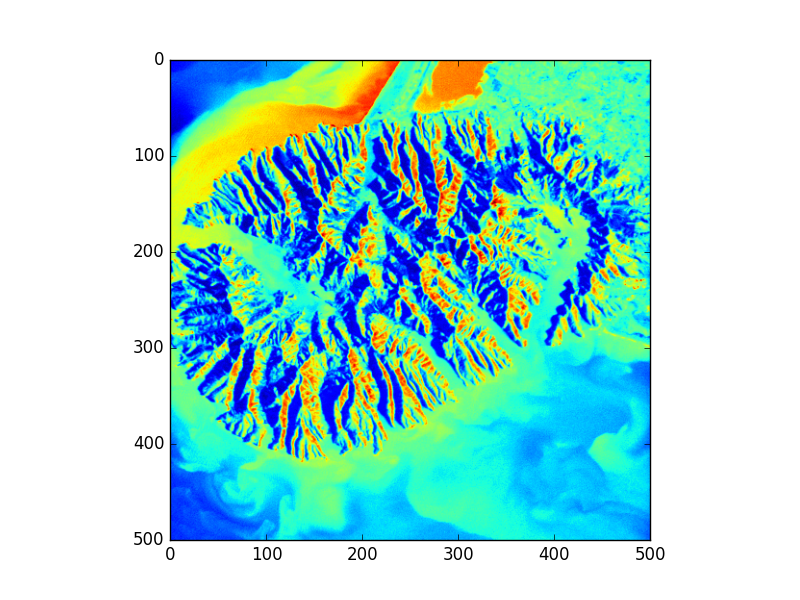
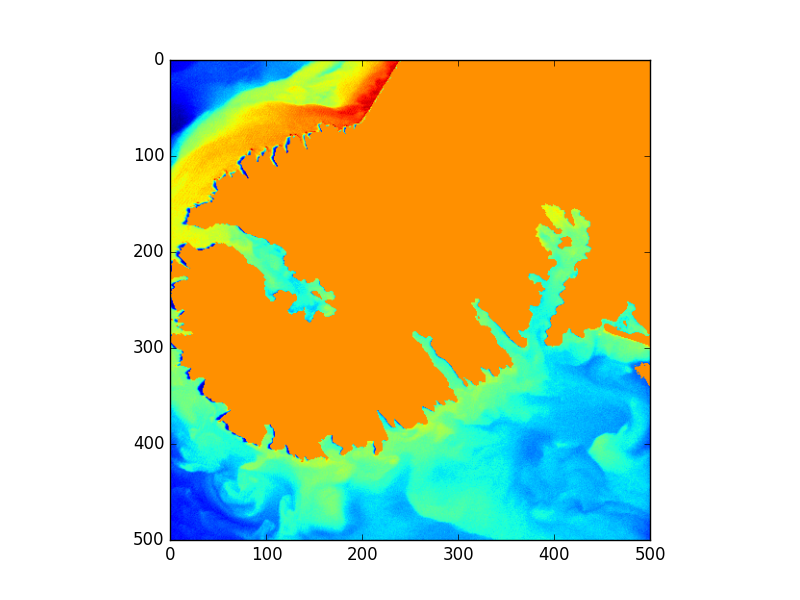
task 2 complete

Changed region(s): [[0.1875, 0.09, 0.8125, 0.78], [0.1875, 0.78, 0.3125, 0.9], [0.7812, 0.6, 0.8125, 0.63]]

diff --git a/Problem2/estimating_reflectance_surface.py b/Problem2/estimating_reflectance_surface.py
@@ -29,7 +29,7 @@ def calculate_ab(lambda_idx):
 	A = np.array([[rho_deep, 1],[rho_shallow, 1]])
 
 	# setup y vector
-	L_shallow = I[shallow_water_y, shallow_water_x, lambda_idx]
+	L_shallow = I[shallow_water_x,shallow_water_y,  lambda_idx]
 	L_deep = I[deep_water_y, deep_water_x, lambda_idx]
 	y = np.array([L_deep, L_shallow])
 	y = y.reshape(2,1)
@@ -39,59 +39,83 @@ def calculate_ab(lambda_idx):
 
 	return x
 
-red = 570.19196
-green = 535.824
-blue = 432.72
-for i in range(0, len(hico_wl)):
-	if hico_wl[i] == red:
-		red_image_index = i
-	if hico_wl[i] == blue:
-		blue_image_index = i
-	if hico_wl[i] == green:
-		green_image_index = i
+def atmosphere_correct(image):
+	
+	#calculate all a,b for valid indices
+	x = np.zeros((100,2))
+	for i in range(0,100):
+		if valid_bands_Rrs[i] == 1:
+			temp_x = calculate_ab(i)
+			x[i,0] = temp_x[0]
+			x[i,1] = temp_x[1]
 
-x = np.zeros((100,2))
-#calculate all a,b for valid indices
-for i in range(0,100):
-	if valid_bands_Rrs[i] == 1:
-		temp_x = calculate_ab(i)
-		print(temp_x)
-		x[i,0] = temp_x[0]
-		x[i,1] = temp_x[1]
+	# Correct the valid bands
+	for i in range(0,H):
+		print(i)
+		for j in range(0,W):
+			# Now we're at a pixel p, time to update the valid channels
+			for k in range(0, 100):
+				if valid_bands_Rrs[k] == 1:
+					# Update the 
+					image[i,j,k] = (image[i,j,k]-x[k,1])/x[k,0]
+	return image
 
-for i in range(0,H):
-	print(i)
-	for j in range(0,W):
-		# Now we're at a pixel p, time to update the valid channels
-		for k in range(0, 100):
-			if valid_bands_Rrs[k] == 1:
-				# Update the 
-				I_corrected[i,j,k] = (I_corrected[i,j,k]-x[k,1])/x[k,0]
+if __name__ == "__main__":
+	
+	I_corrected = atmosphere_correct(I_corrected)
 
-#Finding max radiance in RGB bands
-maximum = 0;
-for i in range(0,H):
-	for j in range(0,W):
-		#for k in range(0,L):
-			if I_corrected[i,j,red_image_index] > maximum:
-				maximum = I_corrected[i,j,red_image_index]
-			if I_corrected[i,j,green_image_index] > maximum:
-				maximum = I_corrected[i,j,green_image_index]
-			if I_corrected[i,j,blue_image_index] > maximum:
-				maximum = I_corrected[i,j,blue_image_index]
+	# Find indices for the three bands
+	red = 570.19196
+	green = 535.824
+	blue = 438.448
+	for i in range(0, len(hico_wl)):
+		if hico_wl[i] == red:
+			red_image_index = i
+		if hico_wl[i] == blue:
+			blue_image_index = i
+		if hico_wl[i] == green:
+			green_image_index = i
 
-# Normalizing(yes i normalize everything, but i am currently interested in RGB chanels)
-for i in range(0,H):
-	for j in range(0,W):
-		for k in range(0,L):
-			I_corrected[i,j,k] = I_corrected[i,j,k]/maximum
+	#Finding max radiance in RGB bands
+	maximum = 0;
+	maximum2 = 0;
+	for i in range(0,H):
+		for j in range(0,W):
+				if I_corrected[i,j,red_image_index] > maximum:
+					maximum = I_corrected[i,j,red_image_index]
+				if I_corrected[i,j,green_image_index] > maximum:
+					maximum = I_corrected[i,j,green_image_index]
+				if I_corrected[i,j,blue_image_index] > maximum:
+					maximum = I_corrected[i,j,blue_image_index]
+
+				if I[i,j,red_image_index] > maximum2:
+					maximum2 = I[i,j,red_image_index]
+				if I[i,j,green_image_index] > maximum2:
+					maximum2 = I[i,j,green_image_index]
+				if I[i,j,blue_image_index] > maximum2:
+					maximum2 = I[i,j,blue_image_index]
+
+	# Normalizing(yes i normalize everything, but i am currently interested in RGB chanels)
+	for i in range(0,H):
+		for j in range(0,W):
+			for k in range(0,L):
+				I_corrected[i,j,k] = I_corrected[i,j,k]/maximum
+				I[i,j,k] = I[i,j,k]/maximum2
 
 
-rgbArray = np.zeros((500,500,3))
-rgbArray[..., 0] = I_corrected[:,:,red_image_index]
-rgbArray[..., 1] = I_corrected[:,:,green_image_index]
-rgbArray[..., 2] = I_corrected[:,:,blue_image_index]
+	rgbArray = np.zeros((500,500,3))
+	rgbArray[..., 0] = I_corrected[:,:,red_image_index]
+	rgbArray[..., 1] = I_corrected[:,:,green_image_index]
+	rgbArray[..., 2] = I_corrected[:,:,blue_image_index]
 
-plt.figure()
-plt.imshow(rgbArray)
-plt.show()
+	rgbArray2 = np.zeros((500,500,3))
+	rgbArray2[..., 0] = I[:,:,red_image_index]
+	rgbArray2[..., 1] = I[:,:,green_image_index]
+	rgbArray2[..., 2] = I[:,:,blue_image_index]
+
+	plt.figure()
+	plt.subplot(121)
+	plt.imshow(rgbArray)
+	plt.subplot(122)
+	plt.imshow(rgbArray2)
+	plt.show()

diff --git a/Problem2/chlorophyll_estimation.py b/Problem2/chlorophyll_estimation.py
@@ -9,42 +9,52 @@ hico_wl = D['hico_wl']
 HICO_original = D['HICO_original']
 land_mask = plt.imread('../data/land_mask.png')[:,:,0] == 0
 
-a = [0.3272, -2.9940, 2.7218, -1.2259, -0.5683]
+def calculate_chlorophyl_image(image):
 
-lambda_green = 553.008
-lambda_blue = [444.176, 490.0, 507.18402]
-lambda_green_idx = -1
-lambda_blue_idx = [-1, -1, -1]
+	a = [0.3272, -2.9940, 2.7218, -1.2259, -0.5683]
 
-for i in range(0,len(hico_wl)):
-	if hico_wl[i] == lambda_green:
-		lambda_green_idx = i
-	if hico_wl[i] == lambda_blue[0]:
-		lambda_blue_idx[0] = i
-	if hico_wl[i] == lambda_blue[1]:
-		lambda_blue_idx[1] = i
-	if hico_wl[i] == lambda_blue[2]:
-		lambda_blue_idx[2] = i
+	lambda_green = 553.008
+	lambda_blue = [444.176, 490.0, 507.18402]
+	lambda_green_idx = -1
+	lambda_blue_idx = [-1, -1, -1]
 
-intensities = np.zeros((500,500))
+	for i in range(0,len(hico_wl)):
+		if hico_wl[i] == lambda_green:
+			lambda_green_idx = i
+		if hico_wl[i] == lambda_blue[0]:
+			lambda_blue_idx[0] = i
+		if hico_wl[i] == lambda_blue[1]:
+			lambda_blue_idx[1] = i
+		if hico_wl[i] == lambda_blue[2]:
+			lambda_blue_idx[2] = i
 
-H,W,L = HICO_original.shape
+	intensities = np.zeros((500,500))
 
-I = copy.deepcopy(HICO_original)
+	H,W,L = HICO_original.shape
 
-for i in range(0,H):
-	for j in range(0,W):
-		intensity = a[0]
-		numerator = max([ I[i,j,lambda_blue_idx[0]], I[i,j,lambda_blue_idx[1]], I[i,j,lambda_blue_idx[2]]])
-		denominator = I[i,j,lambda_green_idx]
-		for k in range(1,5):
-			intensity += a[k]*(math.log(numerator/denominator,10))**k
-		intensities[i,j] = 10**intensity
-intensities[land_mask] = 0
+	I = copy.deepcopy(HICO_original)
 
-print("low intensity: ", intensities[48,12])
-print("high intensity: ", intensities[33,207])
-print("medium intensity: ", intensities[133,11])
-plt.figure()
-plt.imshow(intensities)
-plt.show()
+	for i in range(0,H):
+		for j in range(0,W):
+			intensity = a[0]
+			numerator = max([ image[i,j,lambda_blue_idx[0]], image[i,j,lambda_blue_idx[1]], image[i,j,lambda_blue_idx[2]]])
+			denominator = image[i,j,lambda_green_idx]
+			for k in range(1,5):
+				intensity += a[k]*(math.log(numerator/denominator,10))**k
+			intensities[i,j] = intensity
+			print(intensity)
+
+	return intensities
+
+if __name__ == "__main__":
+	intensities = copy.deepcopy(HICO_original)
+	#intensities[land_mask] = 0
+	intensities = calculate_chlorophyl_image(intensities)
+	intensities[land_mask] = 0
+
+	print("low intensity: ", intensities[48,12])
+	print("high intensity: ", intensities[33,207])
+	print("medium intensity: ", intensities[133,11])
+	plt.figure()
+	plt.imshow(intensities)
+	plt.show()

diff --git a/Problem2/k_means.py b/Problem2/k_means.py
@@ -7,46 +7,58 @@ import copy
 D = loadmat("../data/HICO.mat")
 hico_wl = D['hico_wl']
 HICO_original = D['HICO_original']
+valid_bands_Rrs   = np.loadtxt('../data/valid_bands_Rrs.txt')
+land_mask = plt.imread('../data/land_mask.png')[:,:,0] == 0
 
 I = copy.deepcopy(HICO_original)
 [H,W,L] = I.shape
 
-X = np.reshape(I, [H*W,L])
-print("shape X", X.shape)
+def calculate_k_means(image,k, only_valid_bands):
+	hico_wl = D['hico_wl']
+	H,W,L = image.shape
+	image[land_mask] = 0
+	X = np.reshape(image, [H*W,L])
 
-N_CLUSTERS = 9
+	if only_valid_bands==1:
+		for i in range(99,-1,-1):
+			# if should remove band
+			if valid_bands_Rrs[i] == 0:
+				X = np.delete(X, i, 1)
+				hico_wl = np.delete(hico_wl, i, 0)
 
-kmeans = KMeans(n_clusters=N_CLUSTERS).fit(X)
-labels = kmeans.labels_	
+	kmeans = KMeans(n_clusters=k).fit(X)
+	
+	labels = kmeans.labels_	
 
-print(kmeans.cluster_centers_.shape)
+	imag = np.zeros((500,500))
 
-imag = np.zeros((500,500))
+	for i in range(0,500):
+		for j in range(0,500):
+			imag[i,j] = labels[i*500+j]
 
-for i in range(0,500):
-	for j in range(0,500):
-		imag[i,j] = labels[i*500+j]
-
-#(y,x)
-print("south", imag[70,100])
-print("-", imag[30,100])
-print("north", imag[10,100])
-print(imag)
-plt.figure(1)
-
-plt.subplot(121)
-#(x,y)
-#plt.plot(100,70,'ro')
-#plt.plot(100,30,'bo')
-#plt.plot(100,10,'go')
-plt.imshow(imag)
+	return imag, kmeans, hico_wl
 
 
-plt.subplot(122)
-for i in range(0,N_CLUSTERS):
-	plt.plot(hico_wl, kmeans.cluster_centers_[i,:])
+if __name__ == "__main__":
+	N_CLUSTERS = 5
 
-plt.xlabel("Wavelenght [nm]")
-plt.ylabel("Radiance [$W/m^{-2}\mu m^{-1}sr^{-1}$]")
-plt.legend(np.arange(N_CLUSTERS));
-plt.show()
+	imag, kmeans, hico_wl = calculate_k_means(I,N_CLUSTERS,0)
+
+	plt.figure(1)
+
+	plt.subplot(121)
+	#(x,y)
+	#plt.plot(100,70,'ro')
+	#plt.plot(100,30,'bo')
+	#plt.plot(100,10,'go')
+	plt.imshow(imag)
+
+
+	plt.subplot(122)
+	for i in range(0, N_CLUSTERS):
+		plt.plot(hico_wl, kmeans.cluster_centers_[i,:])
+
+	plt.xlabel("Wavelenght [nm]")
+	plt.ylabel("Radiance [$W/m^{-2}\mu m^{-1}sr^{-1}$]")
+	plt.legend(np.arange(N_CLUSTERS));
+	plt.show()

diff --git a/Problem2/compute_cholophyll_atmosphere_correction.py b/Problem2/compute_cholophyll_atmosphere_correction.py
@@ -1,0 +1,58 @@
+from sklearn.cluster import KMeans
+from scipy.io import loadmat
+import matplotlib.pyplot as plt
+import numpy as np
+import copy
+#from estimating_reflectance_surface import atmosphere_correct
+#from chlorophyll_estimation import calculate_chlorophyl_image
+
+import estimating_reflectance_surface as est
+import chlorophyll_estimation as chl
+import k_means as kmean
+
+D = loadmat("../data/HICO.mat")
+hico_wl = D['hico_wl']
+HICO_original = D['HICO_original']
+deep_water_Rrs    = np.loadtxt('../data/deep_water_Rrs.txt')
+shallow_water_Rrs = np.loadtxt('../data/shallow_water_Rrs.txt')
+valid_bands_Rrs   = np.loadtxt('../data/valid_bands_Rrs.txt')
+land_mask         = plt.imread('../data/land_mask.png')[:,:,0] == 0
+
+I = copy.deepcopy(HICO_original)
+I_corrected = copy.deepcopy(I)
+[H,W,L] = I.shape
+
+deep_water_x = 20
+deep_water_y = 20
+shallow_water_x = 100
+shallow_water_y = 70
+
+
+
+# correct image
+I_corrected = est.atmosphere_correct(I_corrected)
+# Calculate chlorophyll concentration
+CL = chl.calculate_chlorophyl_image(I_corrected)
+# Mask out land area
+CL[land_mask] = 0
+
+# kmeans
+N_CLUSTERS = 9
+ONLY_VALID_BANDS = 1
+imag, kmeans, hico_wl = kmean.calculate_k_means(I_corrected, N_CLUSTERS, ONLY_VALID_BANDS)
+
+
+plt.figure()
+plt.imshow(CL)
+plt.show()
+
+plt.figure()
+plt.subplot(121)
+plt.imshow(imag)
+plt.subplot(122)
+for i in range(0, N_CLUSTERS):
+		plt.plot(hico_wl, kmeans.cluster_centers_[i,:])
+plt.xlabel("Wavelenght [nm]")
+plt.ylabel("Radiance [$W/m^{-2}\mu m^{-1}sr^{-1}$]")
+plt.legend(np.arange(N_CLUSTERS));
+plt.show()
